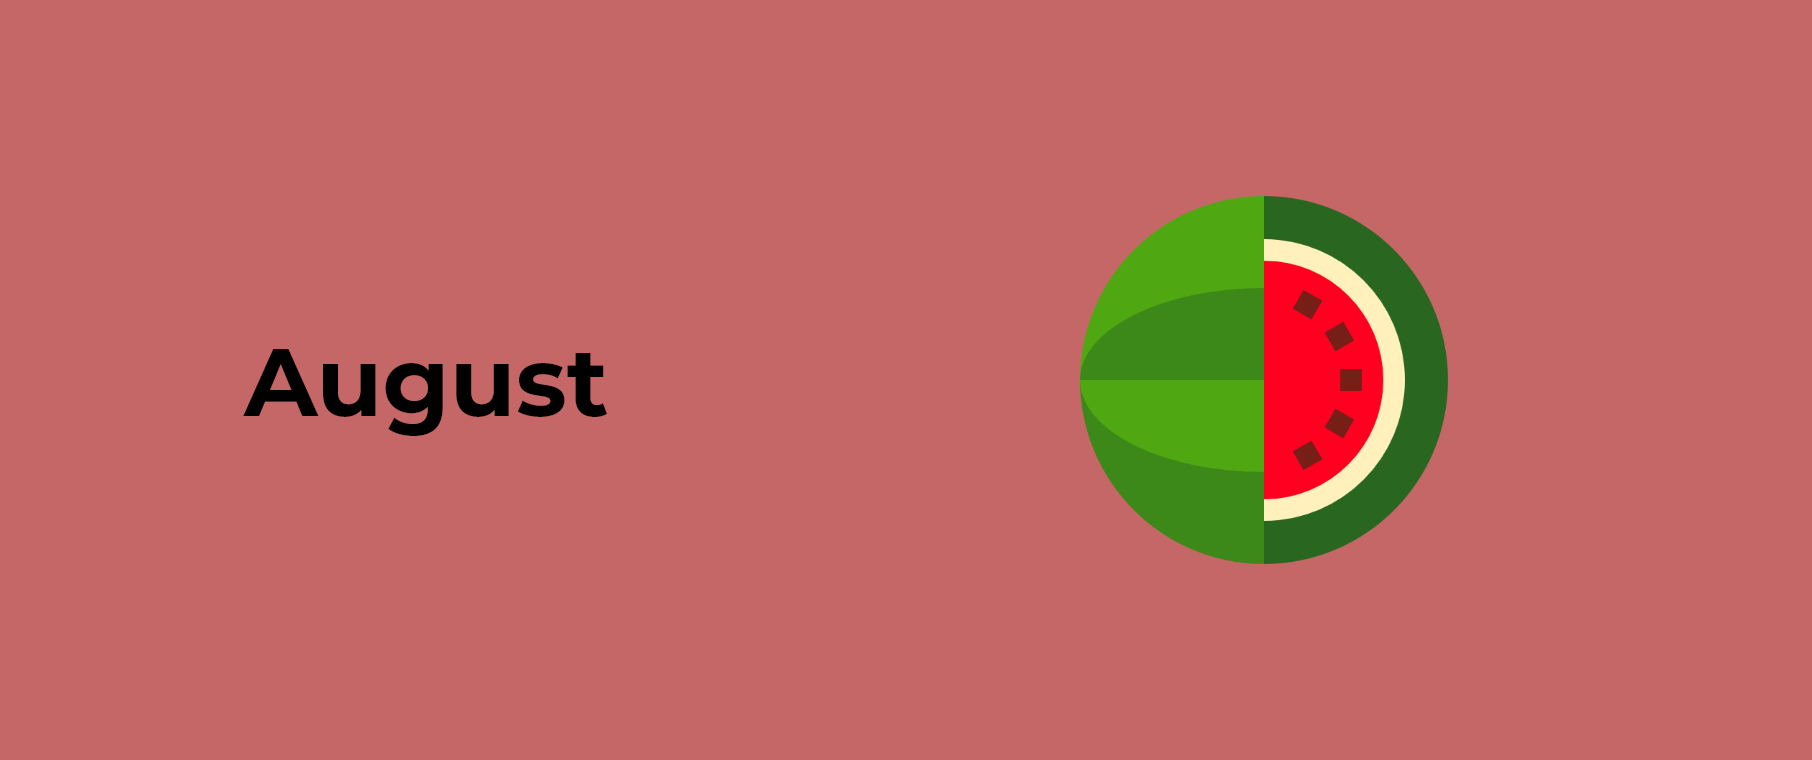
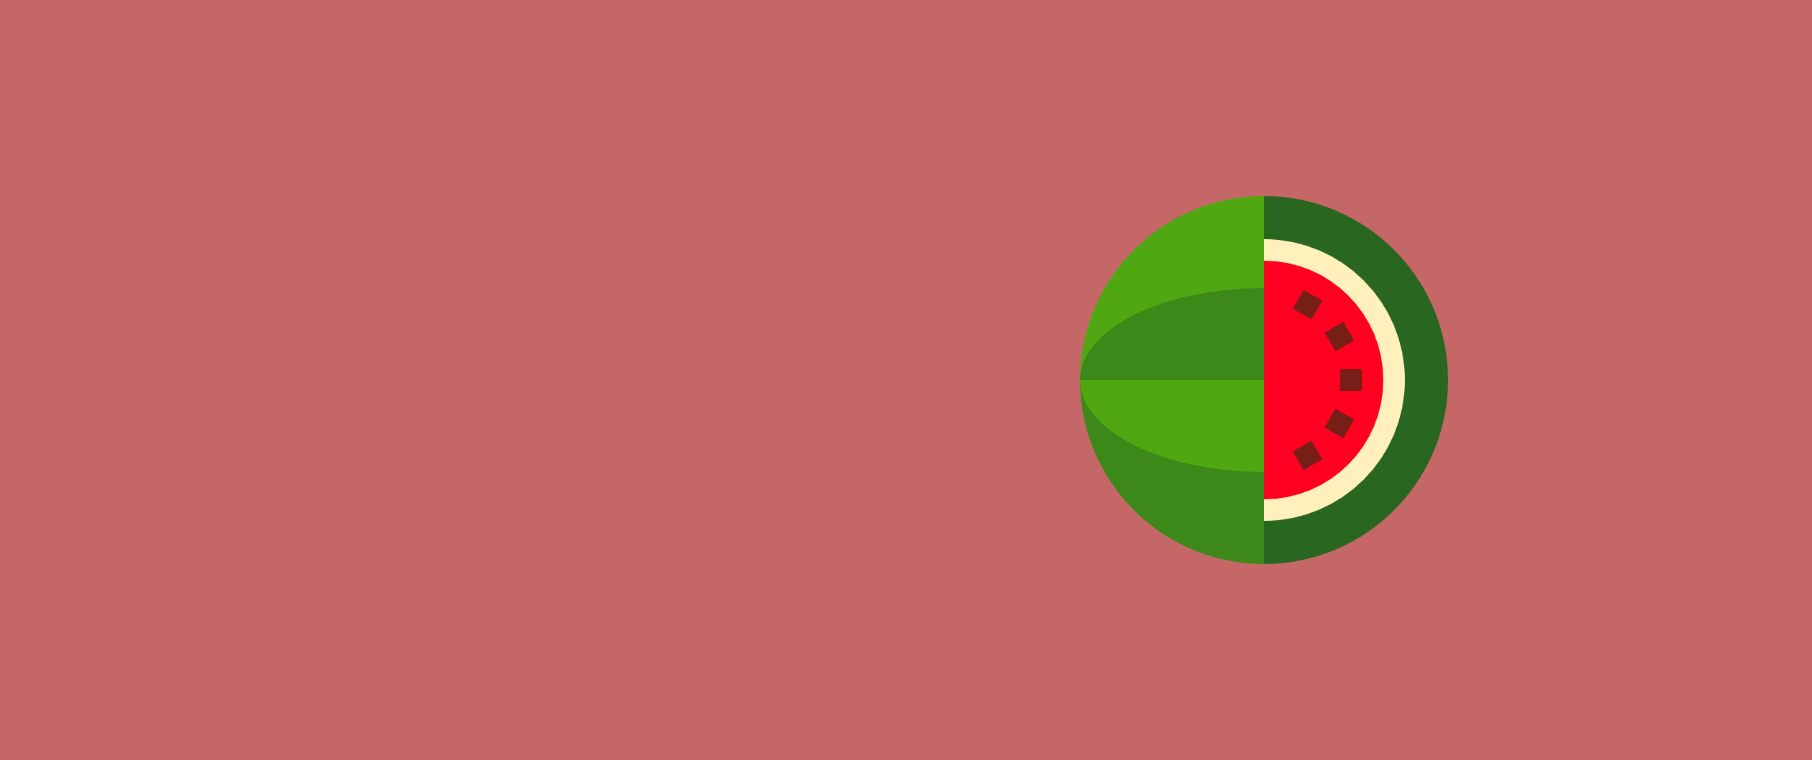
months translated

Changed region(s): [[0.1236, 0.4539, 0.34, 0.575]]

diff --git a/lib/widgets/schedule_view.dart b/lib/widgets/schedule_view.dart
@@ -6,7 +6,7 @@ import '../model/event_data_source.dart';
 import '../provider/appointment_provider.dart';
 import '../screens/event_viewing_page.dart';
 import 'dart:math';
-
+import 'package:flutter_gen/gen_l10n/app_localizations.dart';
 import '../utils.dart';
 
 
@@ -78,7 +78,7 @@ class _ScheduleViewState extends State<ScheduleView> with SingleTickerProviderSt
     final icons = Provider.of<AppointmentProvider>(context).icons;
     final uniqueIds = Provider.of<AppointmentProvider>(context).uniqueIds;
     final event = details.appointments.first;
-    //print('Appointment Details: $event');
+
     String uniqueId = Utils.getUniqueId(event.id.toString(), event.startTime);
 
     return Container(
@@ -159,6 +159,8 @@ class _ScheduleViewState extends State<ScheduleView> with SingleTickerProviderSt
 Widget scheduleViewHeaderBuilder(
     BuildContext buildContext, ScheduleViewMonthHeaderDetails details) {
   final String monthName = _getMonthName(details.date.month);
+  final localization = AppLocalizations.of(buildContext)!;
+
   return Stack(
     children: [
       Image(
@@ -166,7 +168,16 @@ Widget scheduleViewHeaderBuilder(
           fit: BoxFit.cover,
           width: details.bounds.width,
           height: details.bounds.height),
-
+      Positioned(
+        left: 55,
+        right: 0,
+        top: 40,
+        bottom: 0,
+        child: Text(
+          _getLocaleMonthName(details.date.month, localization),
+          style: TextStyle(fontSize: 28, fontFamily: 'Montserrat'),
+        ),
+      )
     ],
   );
 }
@@ -196,5 +207,33 @@ String _getMonthName(int month) {
     return 'november';
   } else {
     return 'december';
+  }
+}
+
+String _getLocaleMonthName(int month, localization) {
+  if (month == 01) {
+    return localization.january;
+  } else if (month == 02) {
+    return localization.february;
+  } else if (month == 03) {
+    return localization.march;
+  } else if (month == 04) {
+    return localization.april;
+  } else if (month == 05) {
+    return localization.may;
+  } else if (month == 06) {
+    return localization.june;
+  } else if (month == 07) {
+    return localization.july;
+  } else if (month == 08) {
+    return localization.august;
+  } else if (month == 09) {
+    return localization.september;
+  } else if (month == 10) {
+    return localization.october;
+  } else if (month == 11) {
+    return localization.november;
+  } else {
+    return localization.december;
   }
 }
